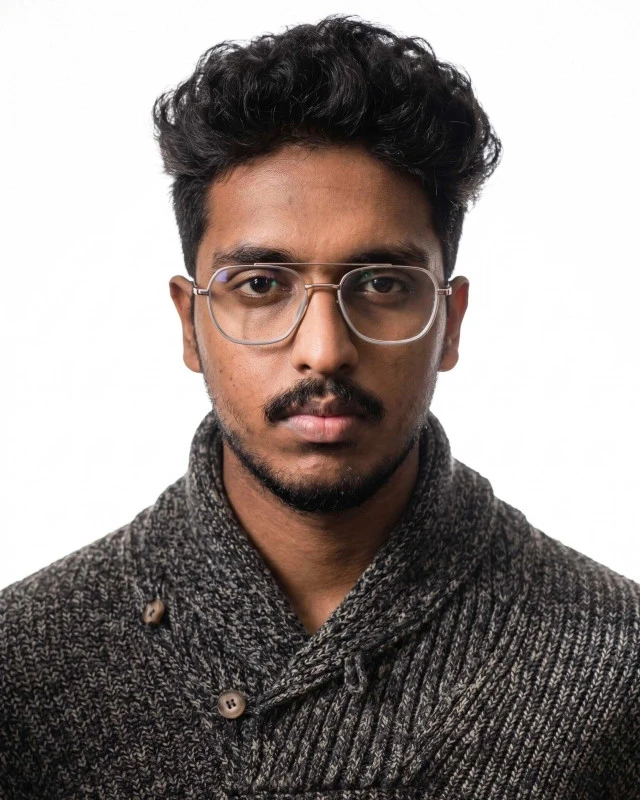
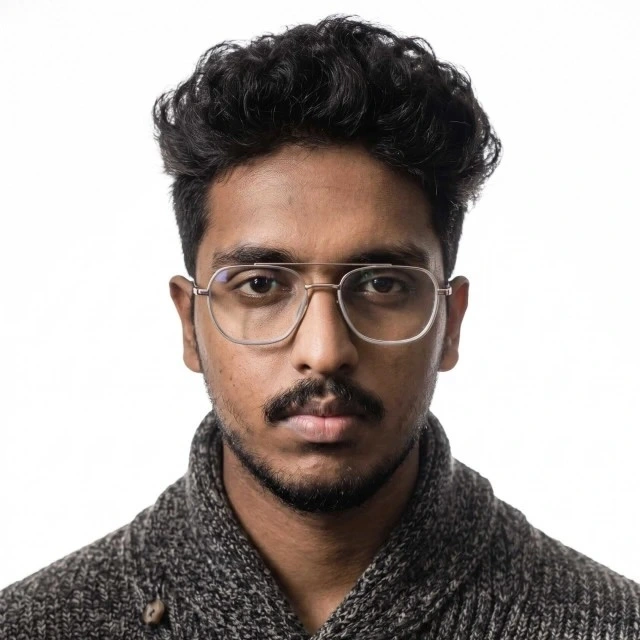
responsive

diff --git a/style.css b/style.css
@@ -70,7 +70,23 @@ nav .right a:last-child:active{
 nav .right span{
     margin-left: 5px;
 }
+@media(max-width:850px)
+{
+ /*Section 1 headshot tect*/
+ .hero-section .text h2{
+    font-size:35px;
+ }   
+}
 
+@media(max-width:740px)
+{
+    .hero-section{
+        flex-direction: column-reverse;
+    }
+    .hero-section .headshot img{
+        width: 300px;
+    }
+}
 @media (max-width: 600px)
 {   /*Nav bar*/
     nav{
@@ -86,6 +102,14 @@ nav .right span{
     nav .right a:last-child{
         color:var(--text-color);
         background-color: (var(--background-color));
+    }
+
+    .hero-section {
+        padding: 0 20px;
+    }
+
+    .hero-section .text h2{
+        font-size: 30px;
     }
 }
 
@@ -108,6 +132,8 @@ nav .right span{
 }
 .hero-section .headshot{
     flex: 2;
+    display: flex;
+    justify-content: flex-end;
 }
 .hero-section .text .links{
     margin-top: 25px;
@@ -129,6 +155,8 @@ nav .right span{
 }
 
 
-.hero-section .headshot .img{
-    border-radius: 50px;
+.hero-section .headshot img{
+   width: 350px;
+   border-radius: 50%;
 }
+